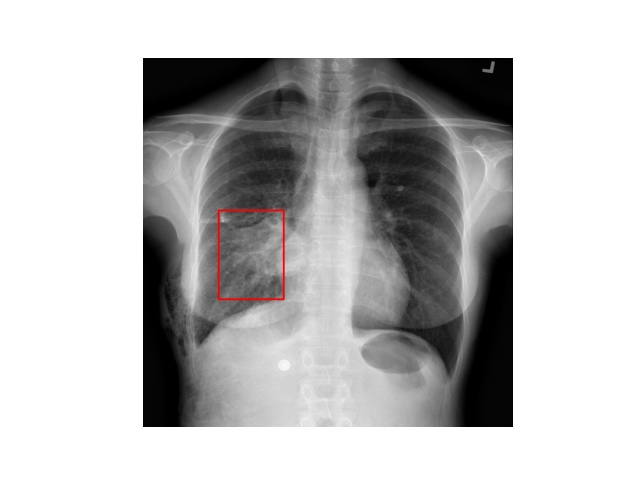
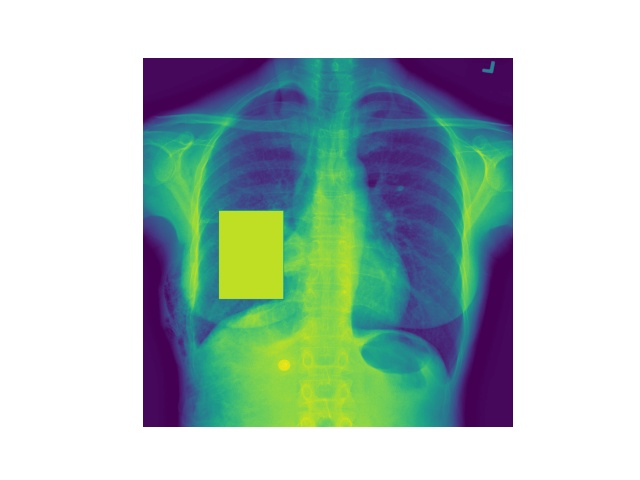
added PIL Image support

diff --git a/app.py b/app.py
@@ -1,14 +1,16 @@
 import os
 import torch
-import cv2
+# import cv2
 import numpy as np
 import torch.nn as nn
 
 import torch
 import torchvision
 import matplotlib.pyplot as plt
+import torchvision.transforms as transforms
 
 from flask import Flask
+from PIL import Image, ImageDraw
 from flask import request
 from flask import render_template
 from torch.nn import functional as F
@@ -46,16 +48,22 @@ def format_prediction_string(boxes, scores):
     return " ".join(pred_strings)
 
 def predict(image_path, model):
+    # define the torchvision image transforms
+    transform = transforms.Compose([
+        transforms.ToTensor(),
+    ])
     results = []
     detection_threshold = 0.9
     model.eval()
     with torch.no_grad():
         test_images = image_path
-        orig_image = cv2.imread(test_images, cv2.IMREAD_COLOR)
-        image = cv2.cvtColor(orig_image, cv2.COLOR_BGR2RGB)
-        image = image/255.0
-        image = np.transpose(image, (2, 0, 1)).astype(np.float)
-        image = torch.tensor(image, dtype=torch.float).to(DEVICE)
+        # orig_image = cv2.imread(test_images, cv2.IMREAD_COLOR)
+        orig_image = Image.open(test_images)
+        # image = cv2.cvtColor(orig_image, cv2.COLOR_BGR2RGB)
+        # image = image/255.0
+        image = orig_image.copy()
+        # image = np.transpose(image, (2, 0, 1)).astype(np.float)
+        image = transform(image).to(DEVICE)
         image = torch.unsqueeze(image, 0)
 
         cpu_device = torch.device("cpu")
@@ -73,12 +81,18 @@ def predict(image_path, model):
                 boxes[:, 3] = boxes[:, 3] - boxes[:, 1]
                 
             for box in draw_boxes:
-                cv2.rectangle(orig_image,
-                            (int(box[0]), int(box[1])),
-                            (int(box[2]), int(box[3])),
-                            (0, 0, 255), 3)
+                draw = ImageDraw.Draw(orig_image)   
+                draw.rectangle([(box[0], box[1]), (box[2], box[3])], 
+                                     fill="#ffff33", outline ="red") 
+                # img.show() 
+                # cv2.rectangle(orig_image,
+                #             (int(box[0]), int(box[1])),
+                #             (int(box[2]), int(box[3])),
+                #             (0, 0, 255), 3)
         
-            plt.imshow(cv2.cvtColor(orig_image, cv2.COLOR_BGR2RGB))
+            # plt.imshow(cv2.cvtColor(orig_image, cv2.COLOR_BGR2RGB))
+            orig_image = np.array(orig_image, dtype=np.float32)
+            plt.imshow(orig_image)
             plt.axis('off')
             print('PATH.......', image_path)
             plt.savefig(f"static/prediction/{image_path.split(os.path.sep)[-1]}")
